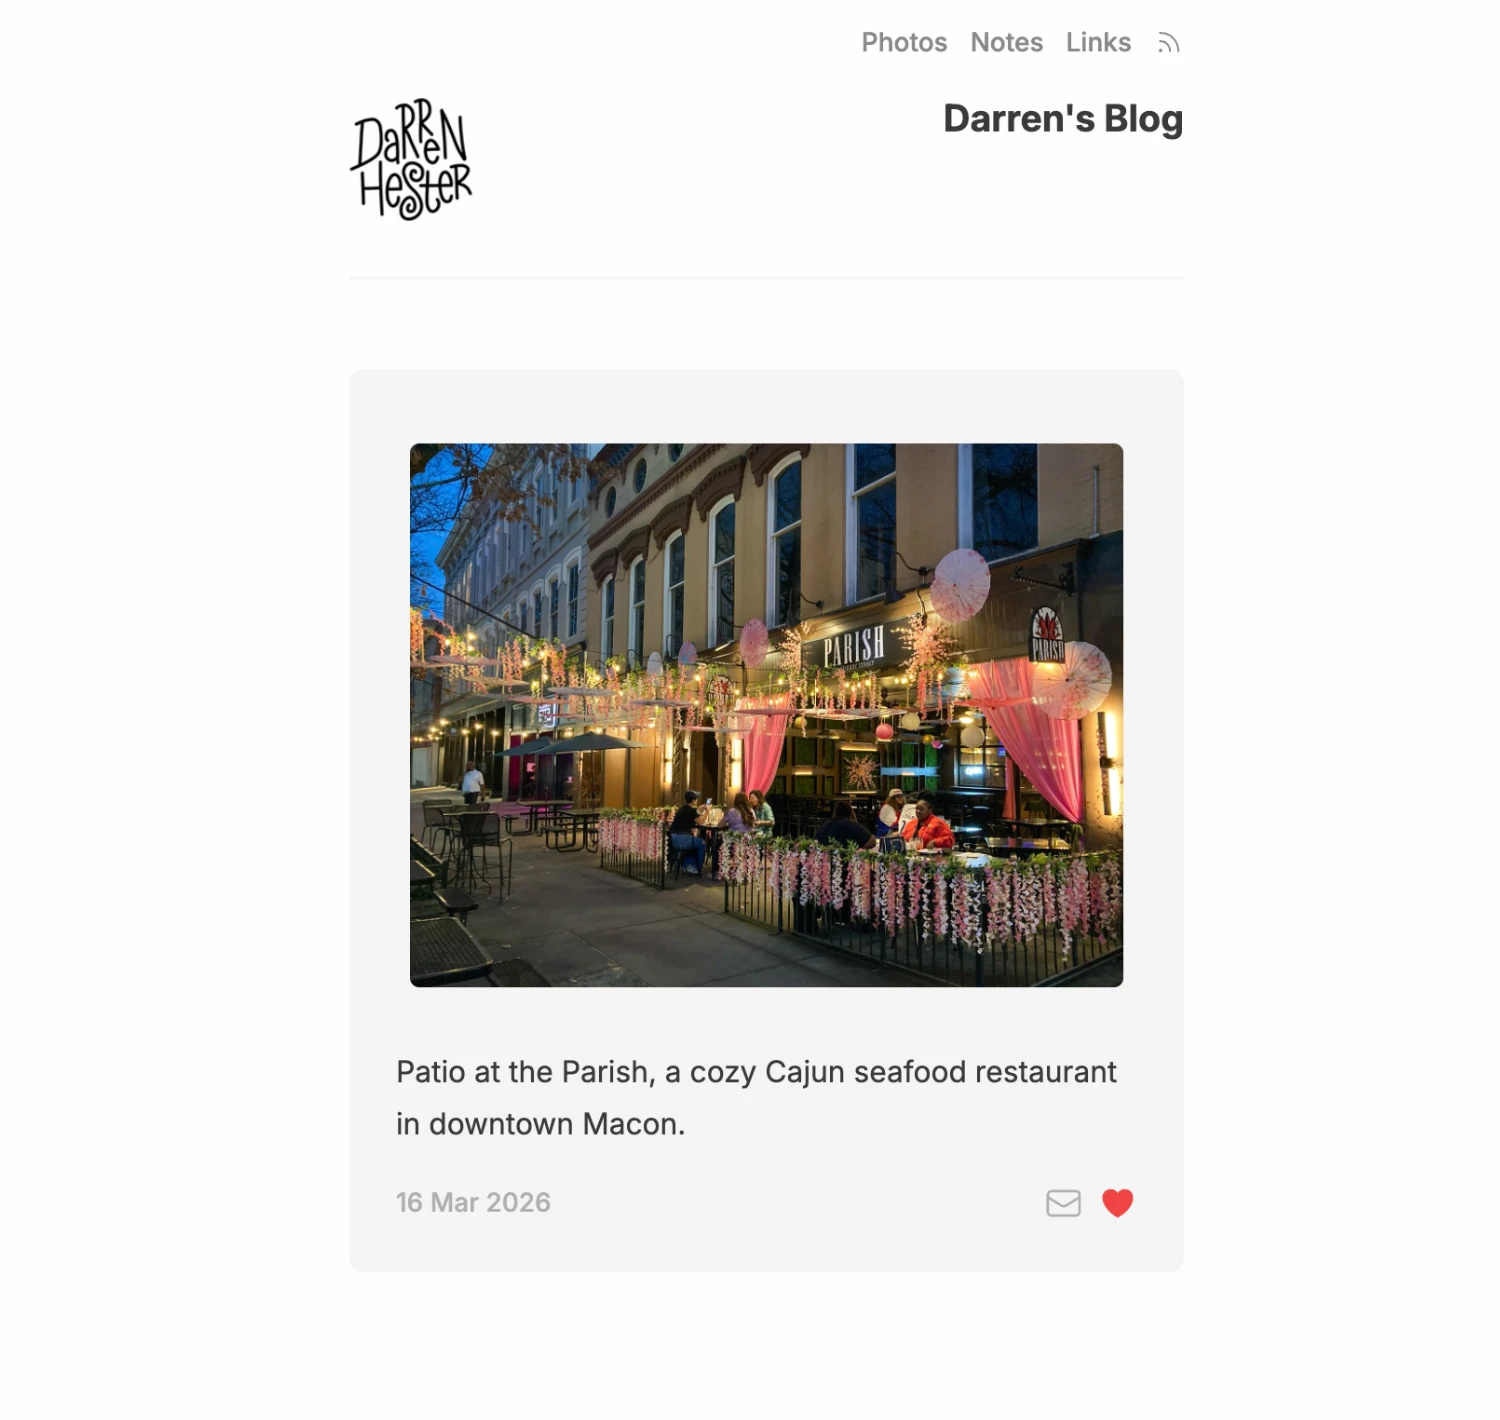
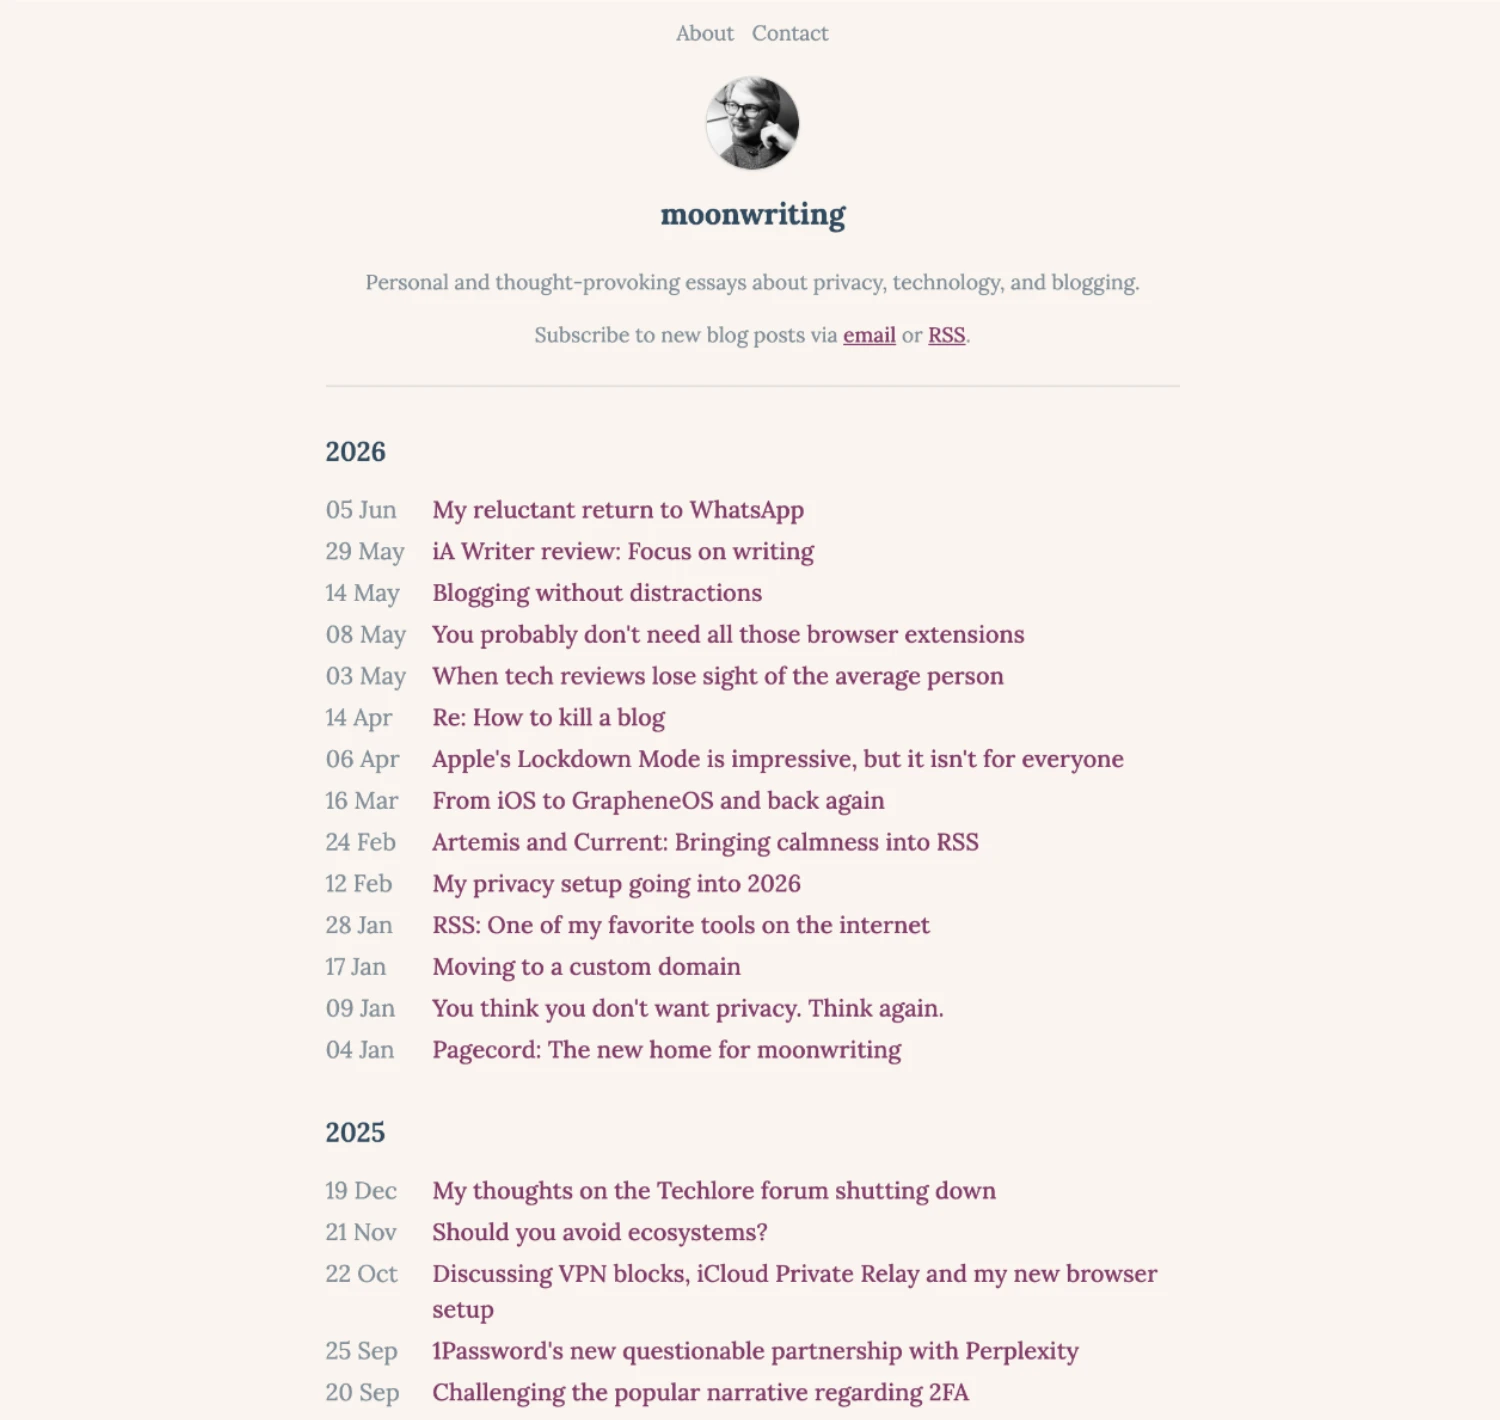
Merge branch 'main' into blog-css-guidance

Pull request: Clarify blog CSS scaling guidance
## Summary

- Document `--font-size-base` as the whole-blog scaling hook in the custom CSS guide
- Add `.post-body` alongside `.lexxy-content e-content` as the public body styling selector
- Update Theme Garden templates to use `.post-body` for body styling while keeping `.e-content` where it is semantically useful
- Remove unused font-size theme tokens and Tailwind utilities
- Convert blog typography component sizes from hard `rem` values to local `em` values with unitless line-height

## Tests

- `bin/rails test test/controllers/admin/theme_templates_controller_test.rb test/controllers/app/settings/theme_garden_controller_test.rb test/integration/custom_css_rendering_test.rb test/models/css/sanitizer_test.rb test/models/blog_test.rb`

diff --git a/test/controllers/public_controller_test.rb b/test/controllers/public_controller_test.rb
@@ -41,6 +41,7 @@ class PublicControllerTest < ActionDispatch::IntegrationTest
 
   test "should get topic landing pages" do
     [
+      personal_website_path,
       minimalist_blogging_path,
       blogging_by_email_path,
       blog_with_newsletter_path
@@ -56,5 +57,13 @@ class PublicControllerTest < ActionDispatch::IntegrationTest
     assert_equal "text/plain; charset=utf-8", @response.content_type
     assert_includes @response.body, "Blog robots.txt for Pagecord"
     assert_includes @response.body, "sitemap.xml"
+  end
+
+  test "sitemap includes topic landing pages" do
+    get public_sitemap_path(format: :xml)
+    assert_response :success
+    assert_includes @response.body, "https://pagecord.com/personal-website"
+    assert_includes @response.body, "https://pagecord.com/minimalist-blogging"
+    assert_includes @response.body, "https://pagecord.com/blog-with-newsletter"
   end
 end

diff --git a/app/controllers/public_controller.rb b/app/controllers/public_controller.rb
@@ -1,7 +1,7 @@
 class PublicController < ApplicationController
   layout "home"
 
-  caches_page :terms, :privacy, :faq, :pagecord_vs_hey_world, :pagecord_vs_wordpress, :pagecord_vs_substack, :pagecord_vs_about_me, :pagecord_vs_medium, :blogging_by_email, :minimalist_blogging, :blog_with_newsletter
+  caches_page :terms, :privacy, :faq, :pagecord_vs_hey_world, :pagecord_vs_wordpress, :pagecord_vs_substack, :pagecord_vs_about_me, :pagecord_vs_medium, :blogging_by_email, :personal_website, :minimalist_blogging, :blog_with_newsletter
 
   def terms
   end
@@ -25,6 +25,9 @@ class PublicController < ApplicationController
   end
 
   def pagecord_vs_medium
+  end
+
+  def personal_website
   end
 
   def minimalist_blogging

diff --git a/config/routes.rb b/config/routes.rb
@@ -237,6 +237,7 @@ Rails.application.routes.draw do
     get "/pagecord-vs-hey-world", to: "public#pagecord_vs_hey_world"
     get "/pagecord-vs-wordpress", to: "public#pagecord_vs_wordpress"
     get "/pagecord-vs-substack", to: "public#pagecord_vs_substack"
+    get "/personal-website", to: "public#personal_website"
     get "/minimalist-blogging", to: "public#minimalist_blogging"
     get "/blogging-by-email", to: "public#blogging_by_email"
     get "/blog-with-newsletter", to: "public#blog_with_newsletter"